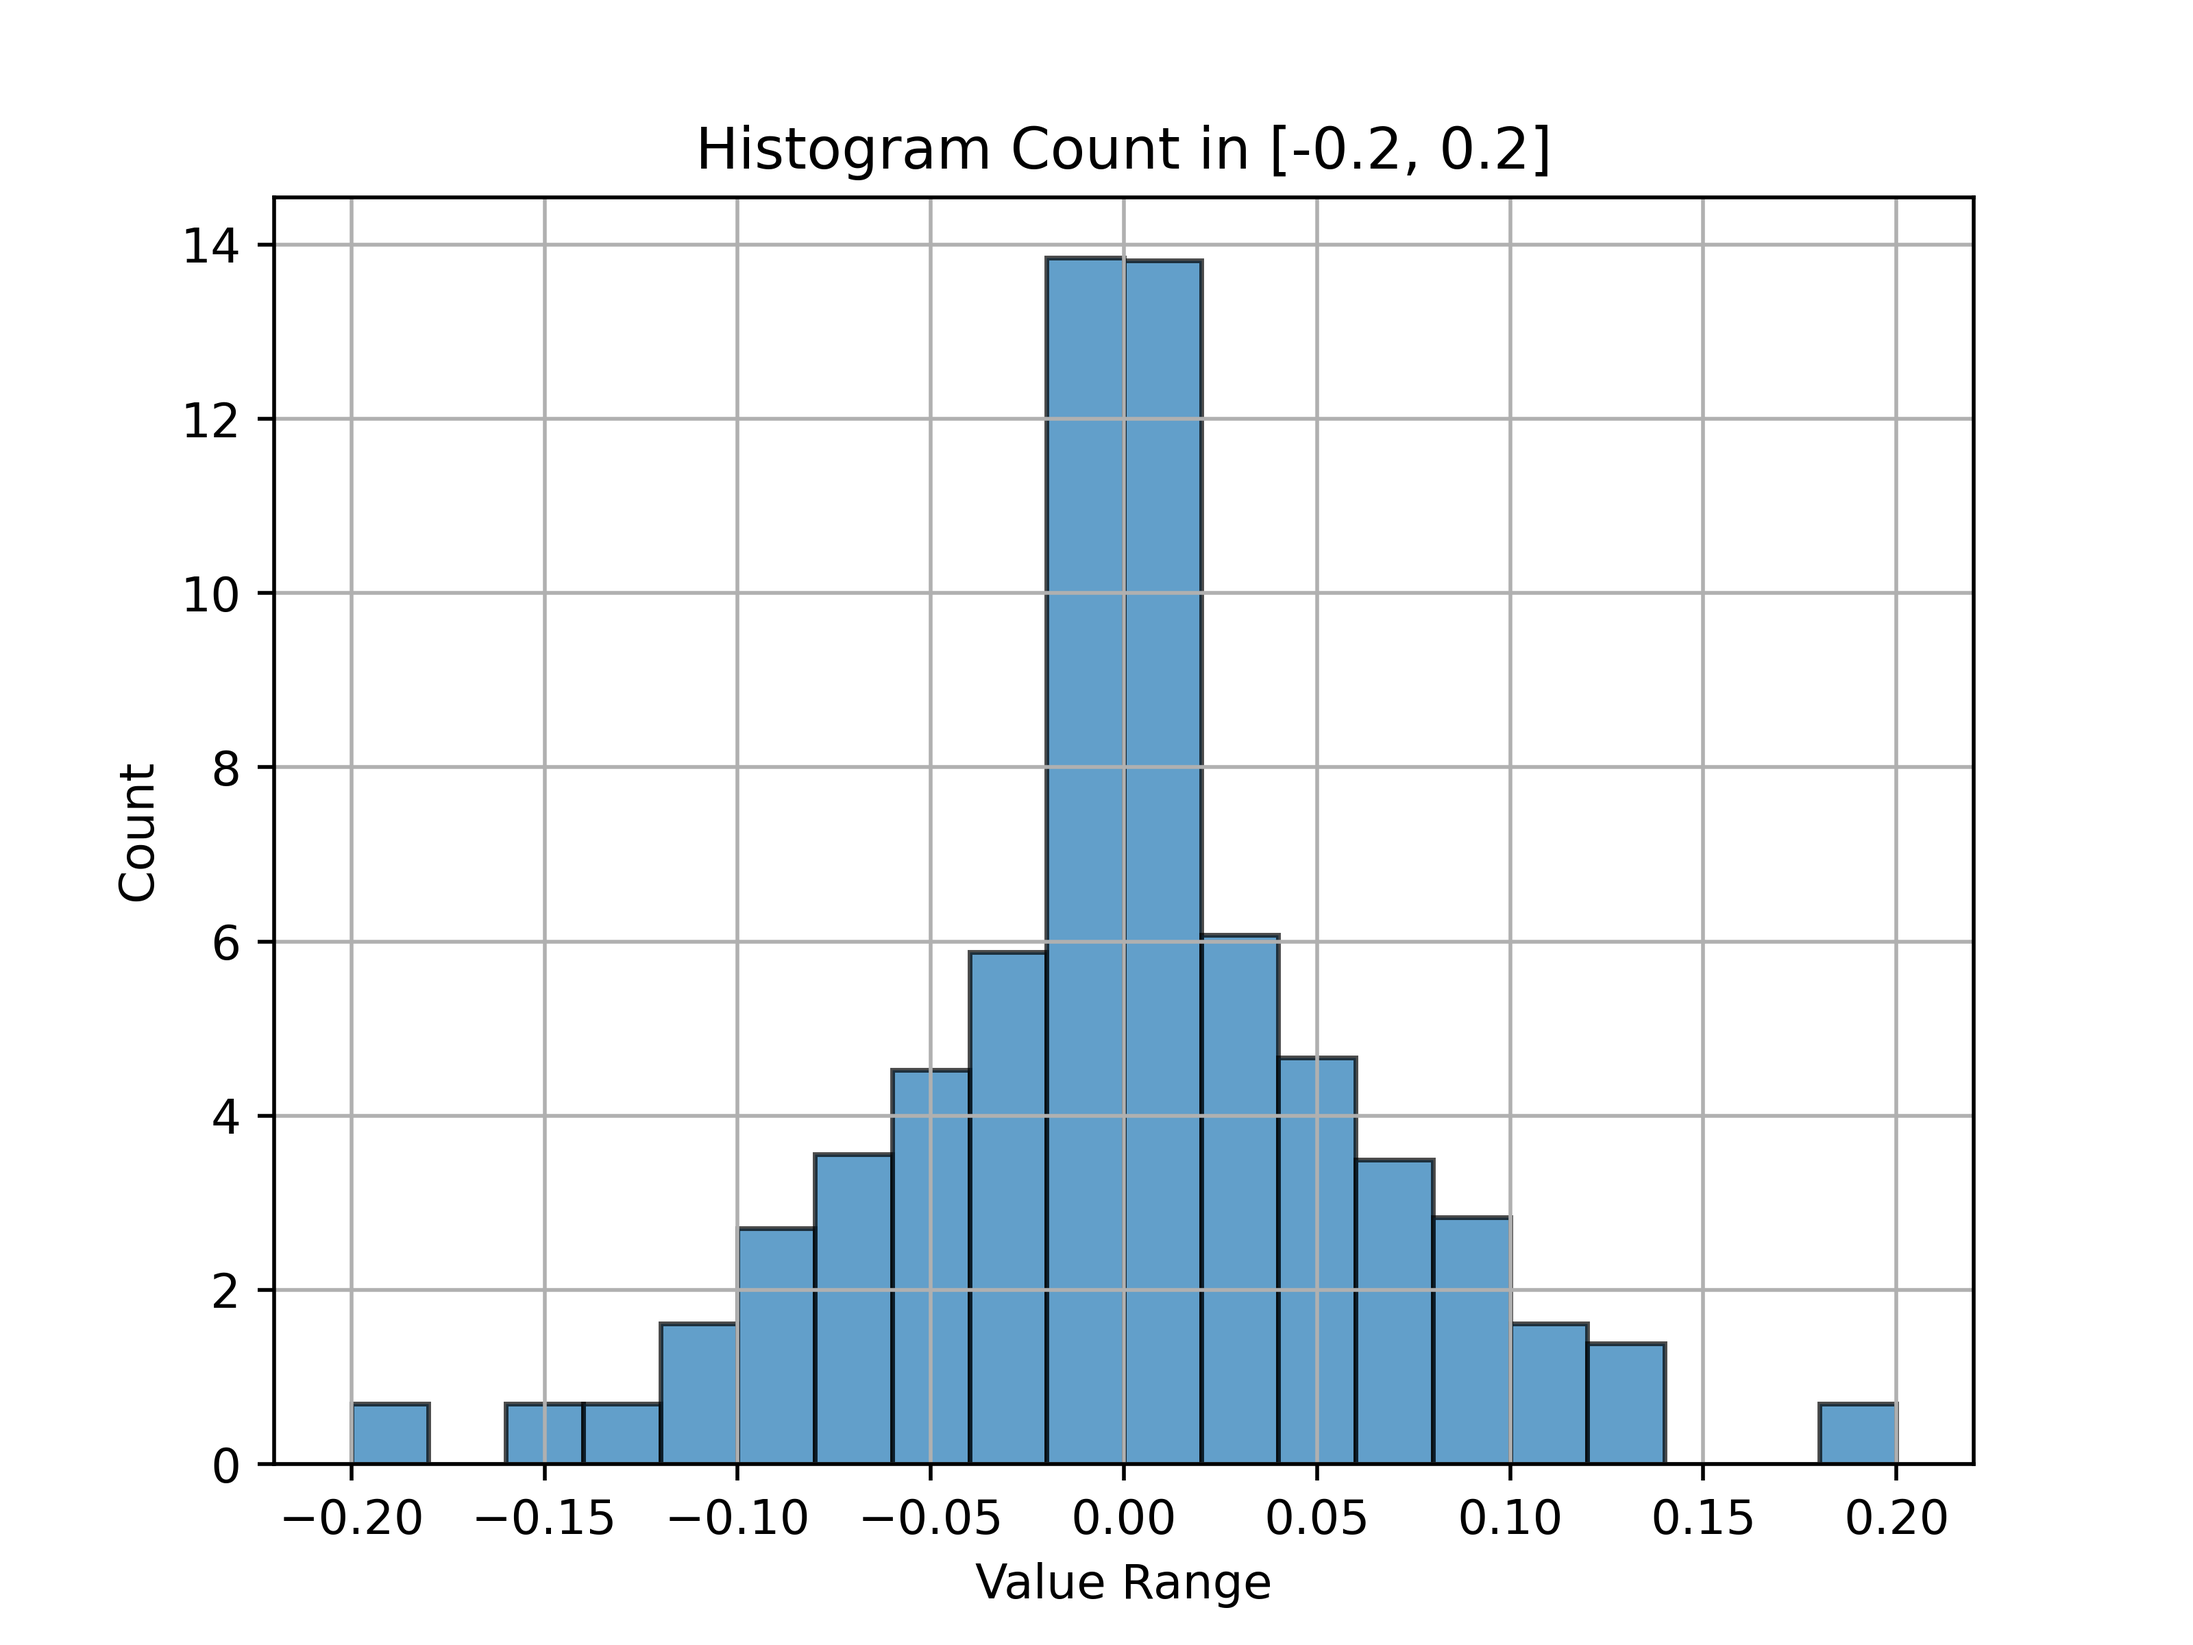
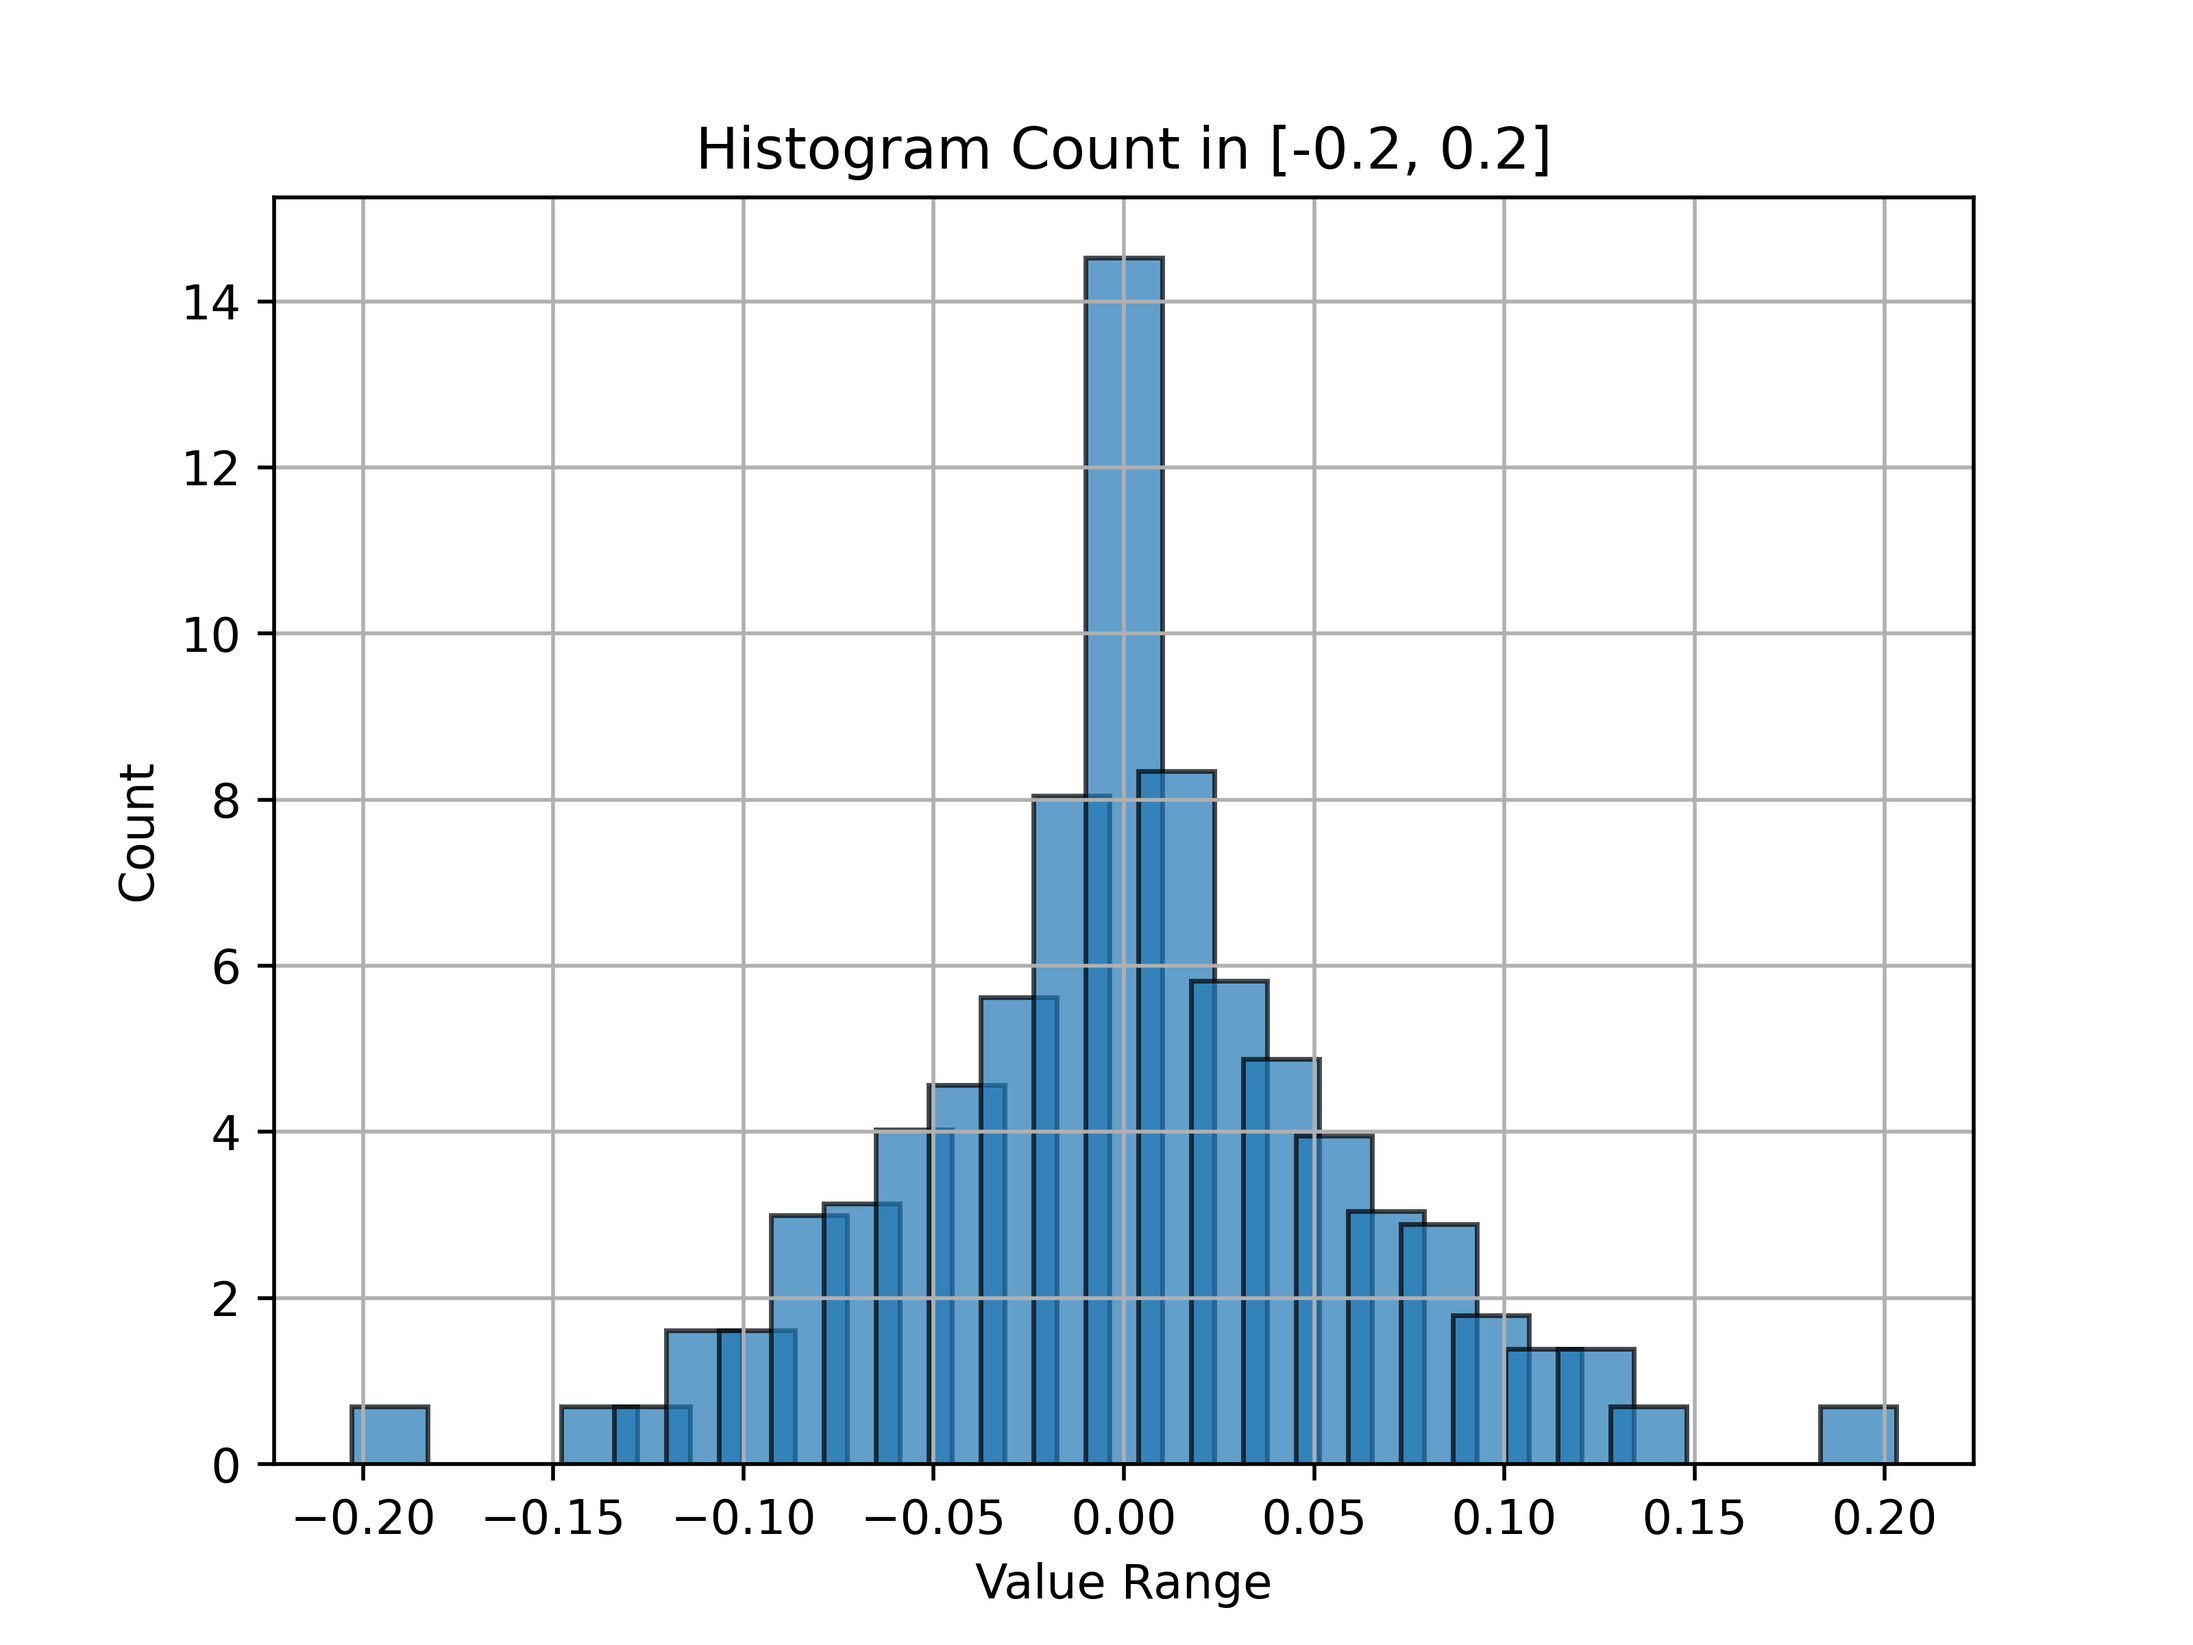
rsi calculation added

diff --git a/binance_app/relative_strength_index.py b/binance_app/relative_strength_index.py
@@ -1,0 +1,38 @@
+import pandas as pd
+import matplotlib.pyplot as plt
+
+def calculate_rsi(prices, period=14):
+    delta = prices.diff()
+
+    gain = delta.clip(lower=0)
+    loss = -delta.clip(upper=0)
+
+    avg_gain = gain.ewm(alpha=1/period, min_periods=period, adjust=False).mean()
+    avg_loss = loss.ewm(alpha=1/period, min_periods=period, adjust=False).mean()
+
+    rs = avg_gain / avg_loss
+    rsi = 100 - (100 / (1 + rs))
+
+    return rsi
+
+
+def categorize(x):
+    if x > 66:
+        return "high"
+    elif x < 34:
+        return "low"
+    return "neutral"
+
+color_map = {
+    'low': 'blue',
+    'neutral': 'orange',
+    'high': 'green'
+}
+
+
+df = pd.read_csv("bar_info.csv")
+
+rsi = calculate_rsi(df["close"])
+df["rsi_val"] = rsi
+df["rsi_val"] = df["rsi_val"].map(categorize)
+df.to_csv("bar_info3.csv")

diff --git a/binance_app/bucket.py b/binance_app/bucket.py
@@ -8,7 +8,7 @@ df["close_ratio"] = df["close"].pct_change()
 df = df.fillna(0)
 
 data = df["close_ratio"].to_numpy()
-bins = np.linspace(-0.2, 0.2, 21)  # 21 edges = 20 bins
+bins = np.linspace(-0.2, 0.2, 30)  # 21 edges = 20 bins
 
 # Get counts per bin (density=False = raw counts)
 counts, bin_edges = np.histogram(data, bins=bins, density=False)
